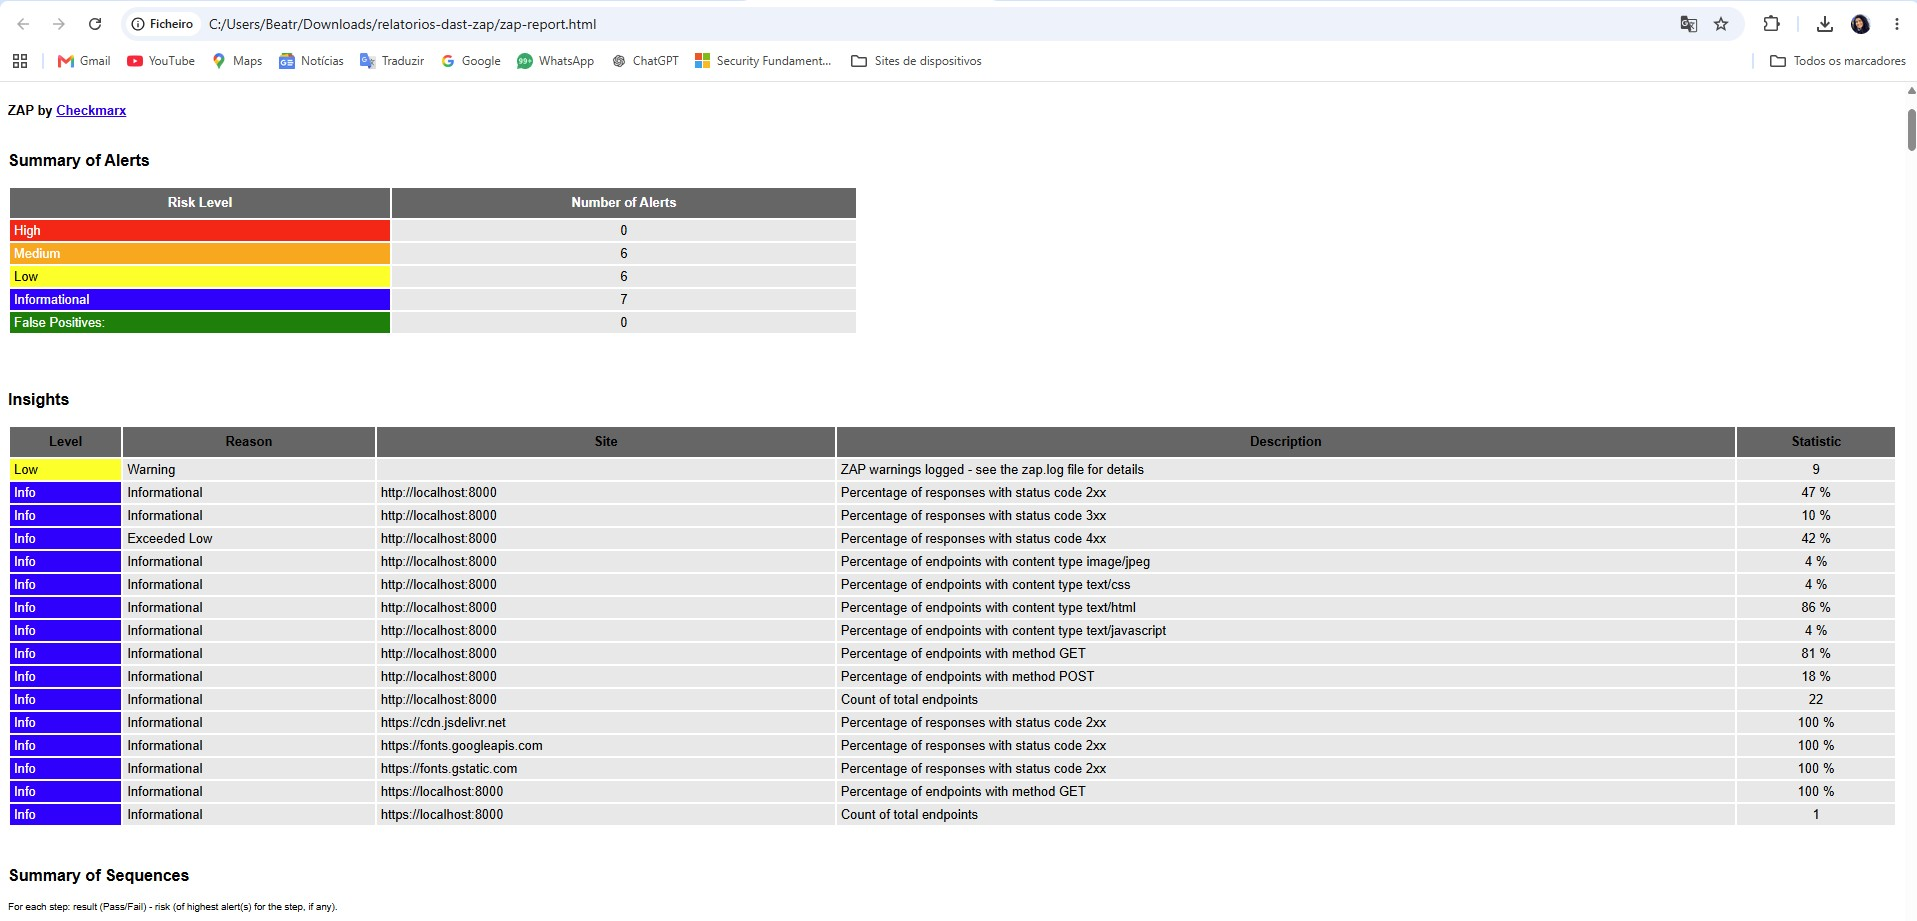
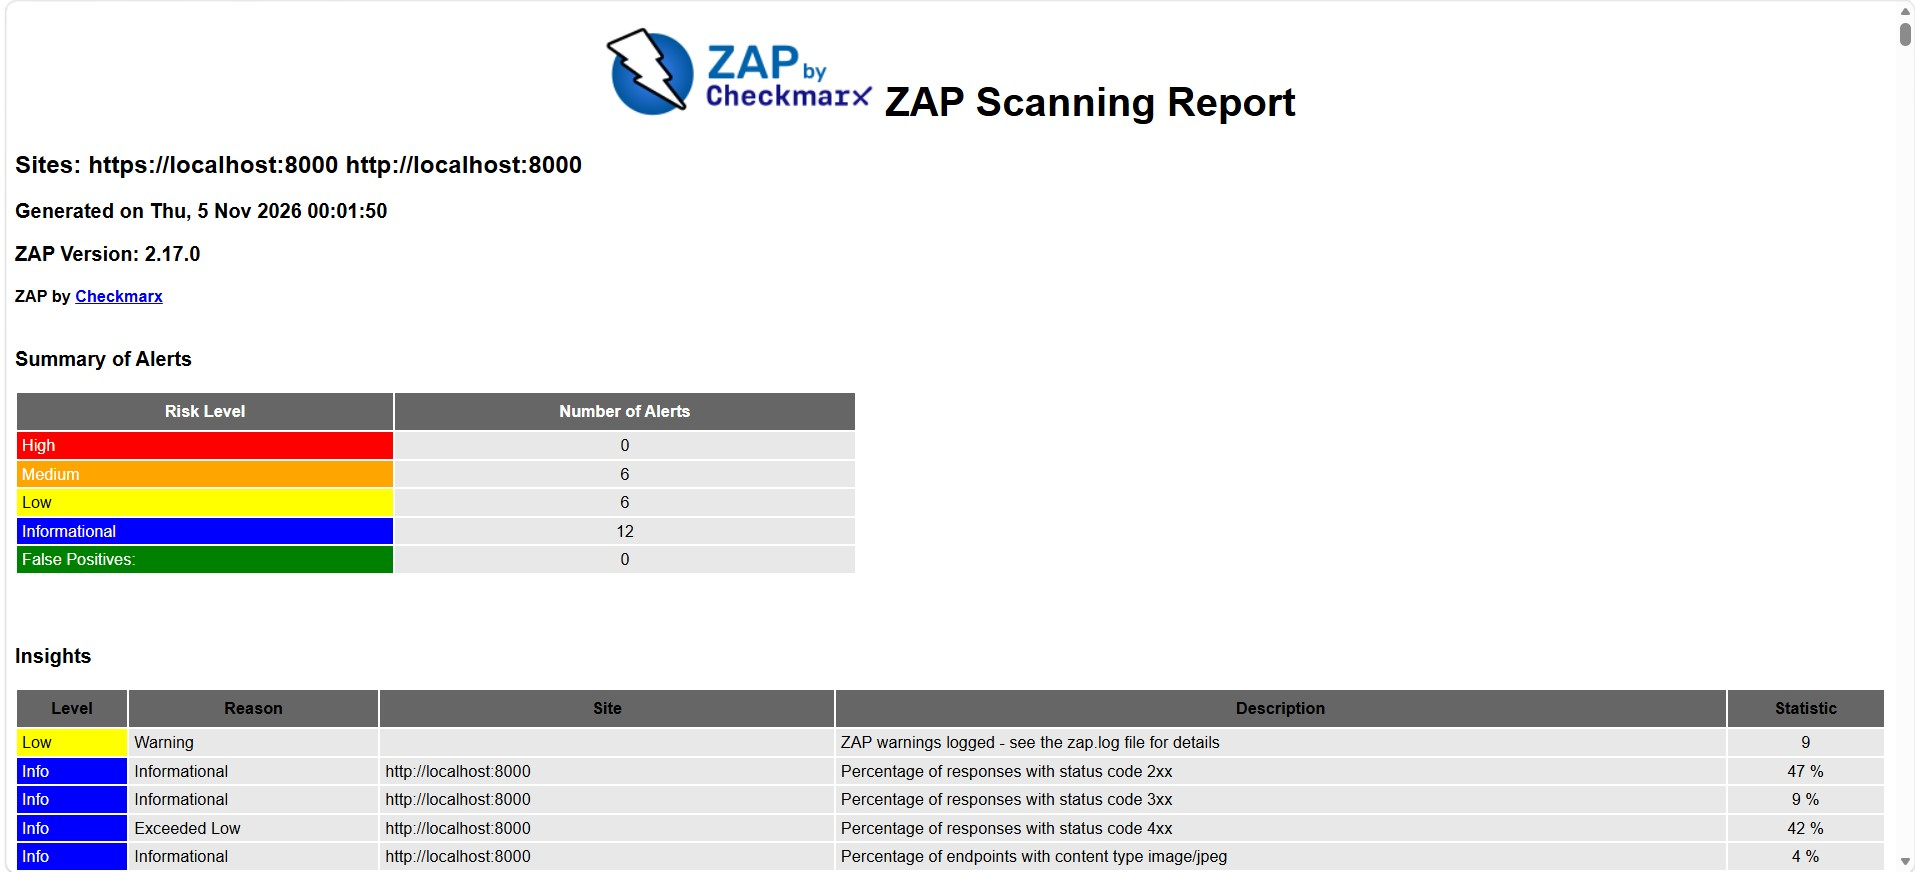
docs: atualiza resultado do ZAP, limitacoes e retencao das tentativas de login

diff --git a/docs/Documentacao-Tecnico-Cientifica/dast-owasp-zap.md b/docs/Documentacao-Tecnico-Cientifica/dast-owasp-zap.md
@@ -10,8 +10,9 @@ A execução automatizada do pipeline obteve aprovação no *Quality Gate*, não
 * **Crítico / Alto (High):** 0
 * **Médio (Medium):** 6
 * **Baixo (Low):** 6
-* **Informativo (Info):** 7
-* **Endpoints Analisados:** 22
+* **Informativo (Info):** 12
+* **Total:** 24 alertas, nenhum bloqueante
+* **Falsos positivos marcados:** 0
 
 ## 3. Evidência de Execução
 
@@ -20,3 +21,10 @@ A execução automatizada do pipeline obteve aprovação no *Quality Gate*, não
 
 ## 4. Análise Técnica e Próximos Passos
 Os alertas de nível médio identificados referem-se maioritariamente à ausência de cabeçalhos de segurança HTTP (como *Content Security Policy - CSP*). Estas melhorias foram documentadas para implementação nas próximas iterações.
+
+## 5. Limitações
+
+- **Cobertura:** o ZAP varre a aplicação sem autenticação, então só percorre as páginas públicas (cadastro, login, recuperação de senha e arquivos estáticos). As áreas internas exigem login e verificação em duas etapas (2FA) e não são varridas por este job. Falhas nessas áreas não são detectadas por ele.
+- **Quality gate:** o build é bloqueado por alertas de severidade explorável definidos em `.zap/rules.tsv` (XSS refletido, persistente e DOM; SQL Injection e variantes; Server Side Code Injection; Remote OS Command Injection; Path Traversal; Remote File Inclusion; CRLF Injection). Regras que não constam no arquivo, como as de cabeçalhos HTTP (por exemplo, Content-Security-Policy ausente), ficam como **aviso** e não quebram o build. Na última execução: 0 alertas bloqueantes e 24 avisos.
+- **HSTS:** a regra 10035 (Strict-Transport-Security) é ignorada no CI, porque a aplicação roda em HTTP puro no runner, sem TLS, e o cabeçalho só é emitido em HTTPS. Em produção ele é verificado (ver `docs/Evidencias/criptografia-comunicacao-segura`).
+- **Ambiente:** a varredura roda contra a aplicação em `localhost`, com banco de teste e `DEBUG=False`, e não contra o ambiente de produção.
